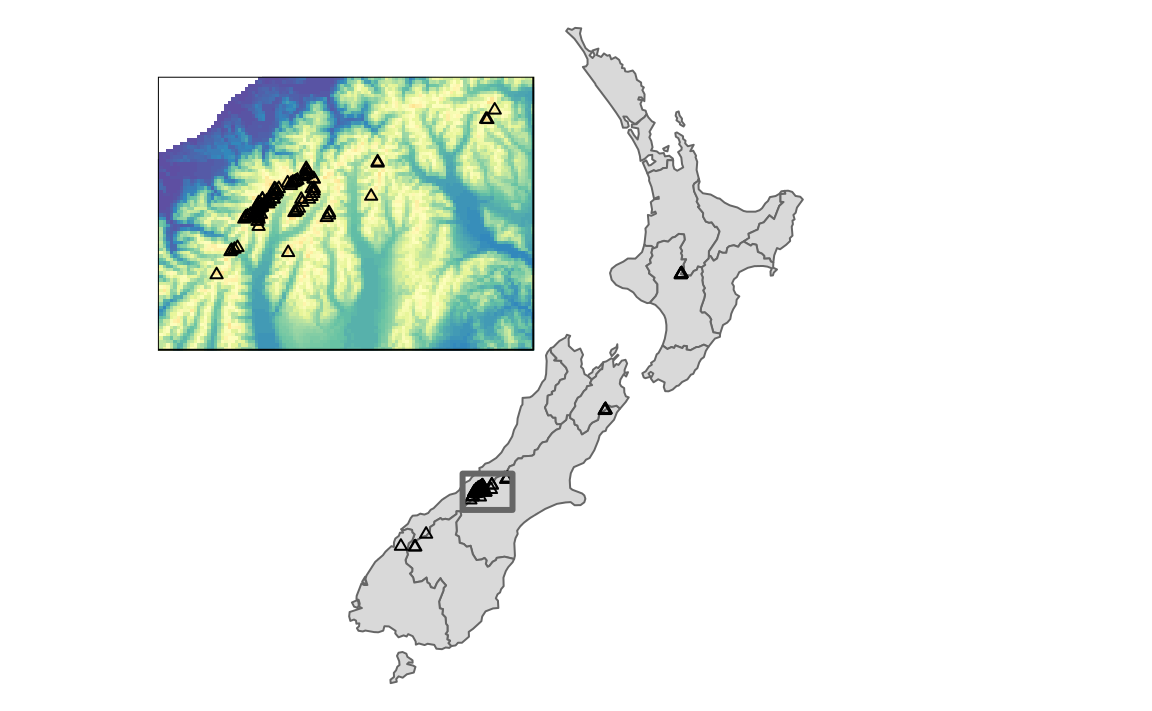
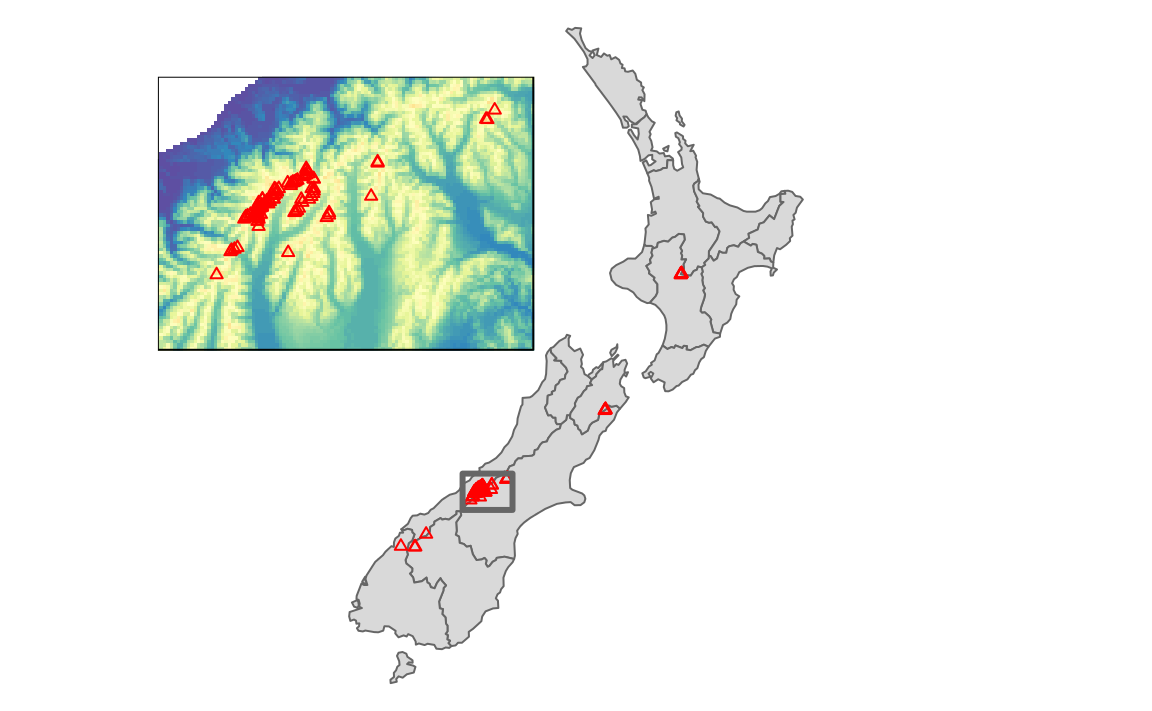
Updating book (2914)
Former-commit-id: 57f9b9c546d54dd1a5f689813b54b6b091880fcf
Former-commit-id: 842c804cbc61a0c2a7ada2e0c0ff43d90f0757c5

diff --git a/adv-map.html b/adv-map.html
@@ -552,16 +552,16 @@ A preview of predefined styles can be generated by executing <code>style_catalog
 <p>Faceted maps, also referred to as ‘small multiples’, are composed of many maps arranged side-by-side (and sometimes stacked vertically also). Facets enable the visualization of how spatial relationships change with respect to another variable, such as time. The changing populations of settlements, for example, can be represented in a faceted map with each panel representing the population at a particular moment in time. The time dimension could be represented via another <em>aesthetic</em> such as color. However, this risks cluttering the map because it will involve multiple overlapping points (cities do not tend to move over time!).</p>
 <p>Typically all individual facets in a faceted map contain the same geometry data repeated multiple times, once for each column in the attribute data (this is the default plotting method for <code>sf</code> objects, as we saw in Chapter 2). However, facets can also represent shifting geometries such as as the evolution of a point pattern over time. This use case of faceted plot is illustrated in Figure <a href="adv-map.html#fig:urban-facet">9.9</a>.</p>
 <!-- todo: describe data type (long) and nrow vs ncol -->
-<div class="sourceCode"><pre class="sourceCode r"><code class="sourceCode r">urb_1950_2030 =<span class="st"> </span>urban_agglomerations %&gt;%<span class="st"> </span>
-<span class="st">  </span><span class="kw">filter</span>(year %in%<span class="st"> </span><span class="kw">c</span>(<span class="dv">1950</span>, <span class="dv">2000</span>, <span class="dv">2030</span>))
+<div class="sourceCode"><pre class="sourceCode r"><code class="sourceCode r">urb_1970_2030 =<span class="st"> </span>urban_agglomerations %&gt;%<span class="st"> </span>
+<span class="st">  </span><span class="kw">filter</span>(year %in%<span class="st"> </span><span class="kw">c</span>(<span class="dv">1970</span>, <span class="dv">1990</span>, <span class="dv">2010</span>, <span class="dv">2030</span>))
 <span class="kw">tm_shape</span>(world) +<span class="st"> </span><span class="kw">tm_polygons</span>() +<span class="st"> </span>
-<span class="st">  </span><span class="kw">tm_shape</span>(urb_1950_2030) +
+<span class="st">  </span><span class="kw">tm_shape</span>(urb_1970_2030) +
 <span class="st">  </span><span class="kw">tm_dots</span>(<span class="dt">size =</span> <span class="st">&quot;population_millions&quot;</span>) +
-<span class="st">  </span><span class="kw">tm_facets</span>(<span class="dt">by =</span> <span class="st">&quot;year&quot;</span>, <span class="dt">nrow =</span> <span class="dv">1</span>)</code></pre></div>
+<span class="st">  </span><span class="kw">tm_facets</span>(<span class="dt">by =</span> <span class="st">&quot;year&quot;</span>, <span class="dt">nrow =</span> <span class="dv">2</span>)</code></pre></div>
 <div class="figure" style="text-align: center"><span id="fig:urban-facet"></span>
-<img src="figures/urban-facet-1.png" alt="Faceted map showing the top 30 largest 'urban agglomerations' from 1950 to 2030 based on population projects by the United Nations." width="576" />
+<img src="figures/urban-facet-1.png" alt="Faceted map showing the top 30 largest 'urban agglomerations' from 1970 to 2030 based on population projects by the United Nations." width="576" />
 <p class="caption">
-Figure 9.9: Faceted map showing the top 30 largest ‘urban agglomerations’ from 1950 to 2030 based on population projects by the United Nations.
+Figure 9.9: Faceted map showing the top 30 largest ‘urban agglomerations’ from 1970 to 2030 based on population projects by the United Nations.
 </p>
 </div>
 <p>The preceding code chunk demonstrates key features of faceted maps created with <strong>tmap</strong>:</p>
@@ -584,7 +584,7 @@ Figure 9.9: Faceted map showing the top 30 largest ‘urban agglomerations’ fr
 <div class="sourceCode"><pre class="sourceCode r"><code class="sourceCode r">nz_map =<span class="st"> </span><span class="kw">tm_shape</span>(nz) +
 <span class="st">  </span><span class="kw">tm_polygons</span>() +
 <span class="st">  </span><span class="kw">tm_shape</span>(nz_height) +
-<span class="st">  </span><span class="kw">tm_symbols</span>(<span class="dt">shape =</span> <span class="dv">2</span>, <span class="dt">col =</span> <span class="st">&quot;black&quot;</span>, <span class="dt">size =</span> <span class="fl">0.1</span>) +<span class="st"> </span>
+<span class="st">  </span><span class="kw">tm_symbols</span>(<span class="dt">shape =</span> <span class="dv">2</span>, <span class="dt">col =</span> <span class="st">&quot;red&quot;</span>, <span class="dt">size =</span> <span class="fl">0.1</span>) +<span class="st"> </span>
 <span class="st">  </span><span class="kw">tm_shape</span>(nz_region) +
 <span class="st">  </span><span class="kw">tm_borders</span>(<span class="dt">lwd =</span> <span class="dv">3</span>) +<span class="st"> </span>
 <span class="st">  </span><span class="kw">tm_layout</span>(<span class="dt">frame =</span> <span class="ot">FALSE</span>)</code></pre></div>
@@ -593,7 +593,7 @@ Figure 9.9: Faceted map showing the top 30 largest ‘urban agglomerations’ fr
 <span class="st">  </span><span class="kw">tm_raster</span>(<span class="dt">style =</span> <span class="st">&quot;cont&quot;</span>, <span class="dt">palette =</span> <span class="st">&quot;-Spectral&quot;</span>,
             <span class="dt">auto.palette.mapping =</span> <span class="ot">FALSE</span>, <span class="dt">legend.show =</span> <span class="ot">FALSE</span>) +
 <span class="st">  </span><span class="kw">tm_shape</span>(nz_height) +
-<span class="st">  </span><span class="kw">tm_symbols</span>(<span class="dt">shape =</span> <span class="dv">2</span>, <span class="dt">col =</span> <span class="st">&quot;black&quot;</span>, <span class="dt">size =</span> <span class="fl">0.1</span>)</code></pre></div>
+<span class="st">  </span><span class="kw">tm_symbols</span>(<span class="dt">shape =</span> <span class="dv">2</span>, <span class="dt">col =</span> <span class="st">&quot;red&quot;</span>, <span class="dt">size =</span> <span class="fl">0.1</span>)</code></pre></div>
 <p>Finally, we combine the two maps. A viewport from the <strong>grid</strong> package can be used by stating a center location (<code>x</code> and <code>y</code>) and a size (<code>width</code> and <code>height</code>) of the inset map.</p>
 <div class="sourceCode"><pre class="sourceCode r"><code class="sourceCode r"><span class="kw">library</span>(grid)
 nz_map
